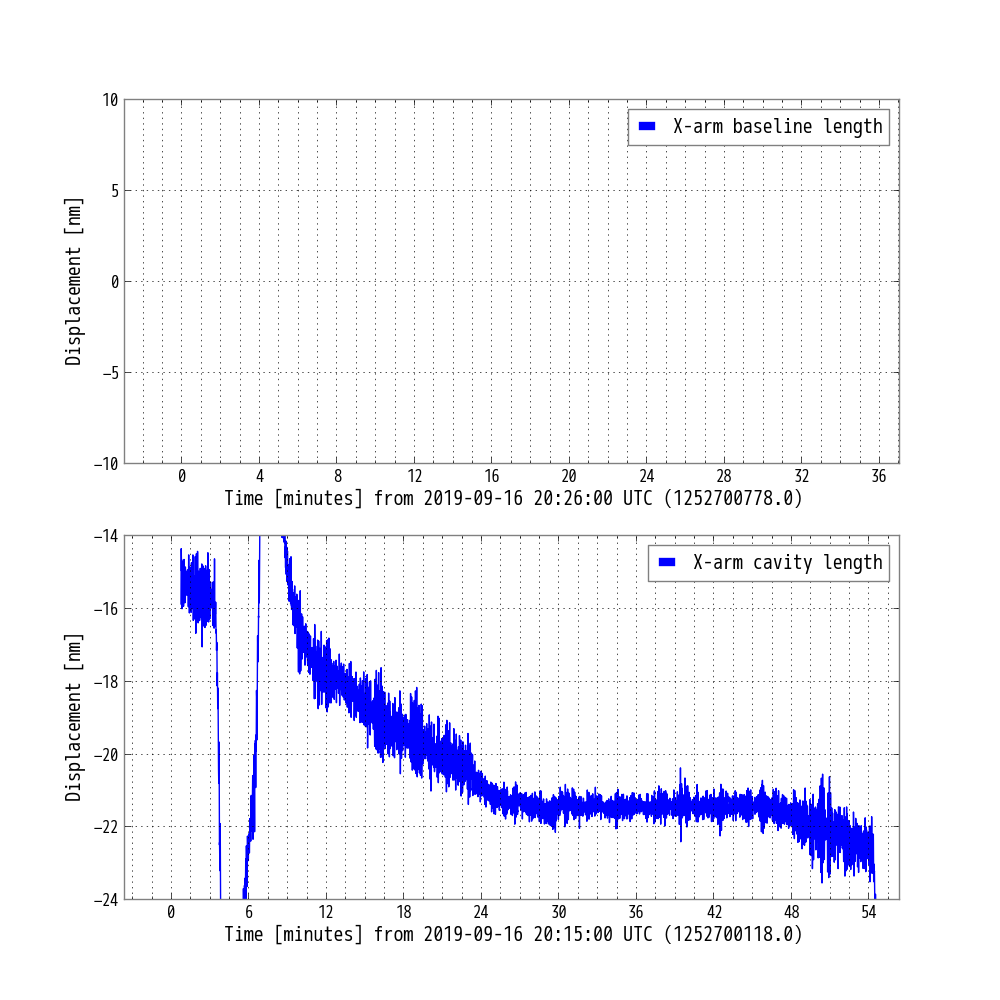
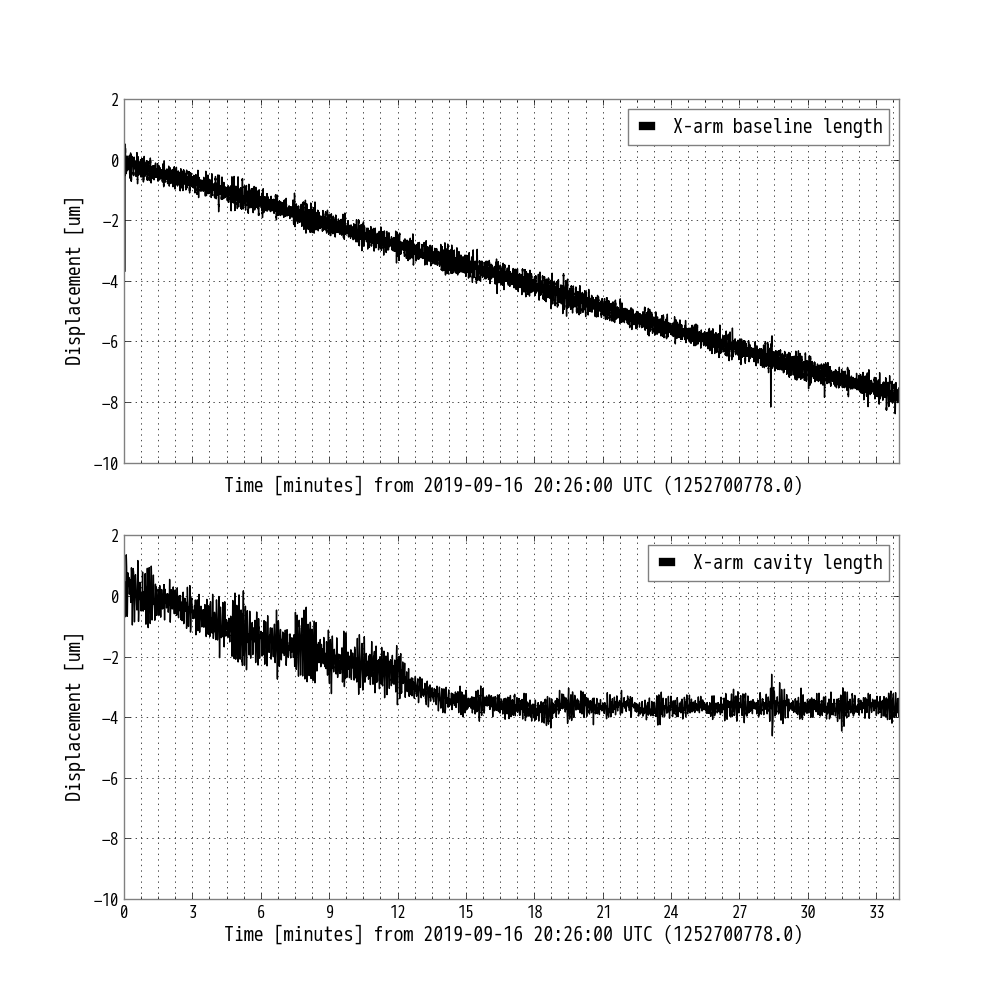
Update

diff --git a/ugm/strainmeter/main2.py b/ugm/strainmeter/main2.py
@@ -9,8 +9,8 @@ from miyopy.gif.datatype import GifData
 from gwpy.time import tconvert
 from gwpy.timeseries import TimeSeries
 
-start = tconvert('Sep 16 2019 20:16:00 UTC')
-end = tconvert('Sep 16 2019 21:10:00 UTC')
+start = tconvert('Sep 16 2019 20:26:00 UTC')
+end = tconvert('Sep 16 2019 21:00:00 UTC')
 if False:
     chname = 'CALC_STRAIN'
     gif = GifData('CALC_STRAIN')
@@ -23,20 +23,25 @@ if False:
     data.write('gif_Sep17.gwf')
 else:
     gif = TimeSeries.read('gif_Sep17.gwf','CALC_STRAIN')*3000*1e6
+    gif = gif - gif.crop(int(start),int(start)+1).mean().value
     fnamelist = existedfilelist(start,end,trend='full')
     c = 299792458 # m/sec
     lam = 1064e-9 # m
     xarm = TimeSeries.read(fnamelist,'K1:CAL-CS_PROC_XARM_FILT_AOM_OUT16')*3000.0/(c/lam)*1e6 # [um]
+    #print(xarm)
+    xarm = xarm - xarm.crop(int(start),int(start)+1).mean()
 
-fig,ax = plt.subplots(2,1,figsize=(10,10))
-ax[0].plot(gif,label='X-arm baseline length')
-ax[0].set_ylim(-10,10)
+    
+fig,ax = plt.subplots(2,1,figsize=(10,10),sharex=True)
+ax[0].plot(gif,label='X-arm baseline length',color='k')
+ax[0].set_ylim(-10,2)
 ax[0].set_xscale('auto-gps')
-ax[0].set_ylabel('Displacement [nm]')
-ax[1].plot(xarm,label='X-arm cavity length')
+ax[0].set_ylabel('Displacement [um]')
+ax[1].plot(xarm,label='X-arm cavity length',color='k')
 ax[1].set_xscale('auto-gps')
-ax[1].set_ylabel('Displacement [nm]')
-ax[1].set_ylim(-24,-14)
+ax[1].set_ylabel('Displacement [um]')
+ax[1].set_ylim(-10,2)
+ax[1].set_xlim(start,end)
 ax[0].legend()
 ax[1].legend()
 plt.savefig('gif.png')
